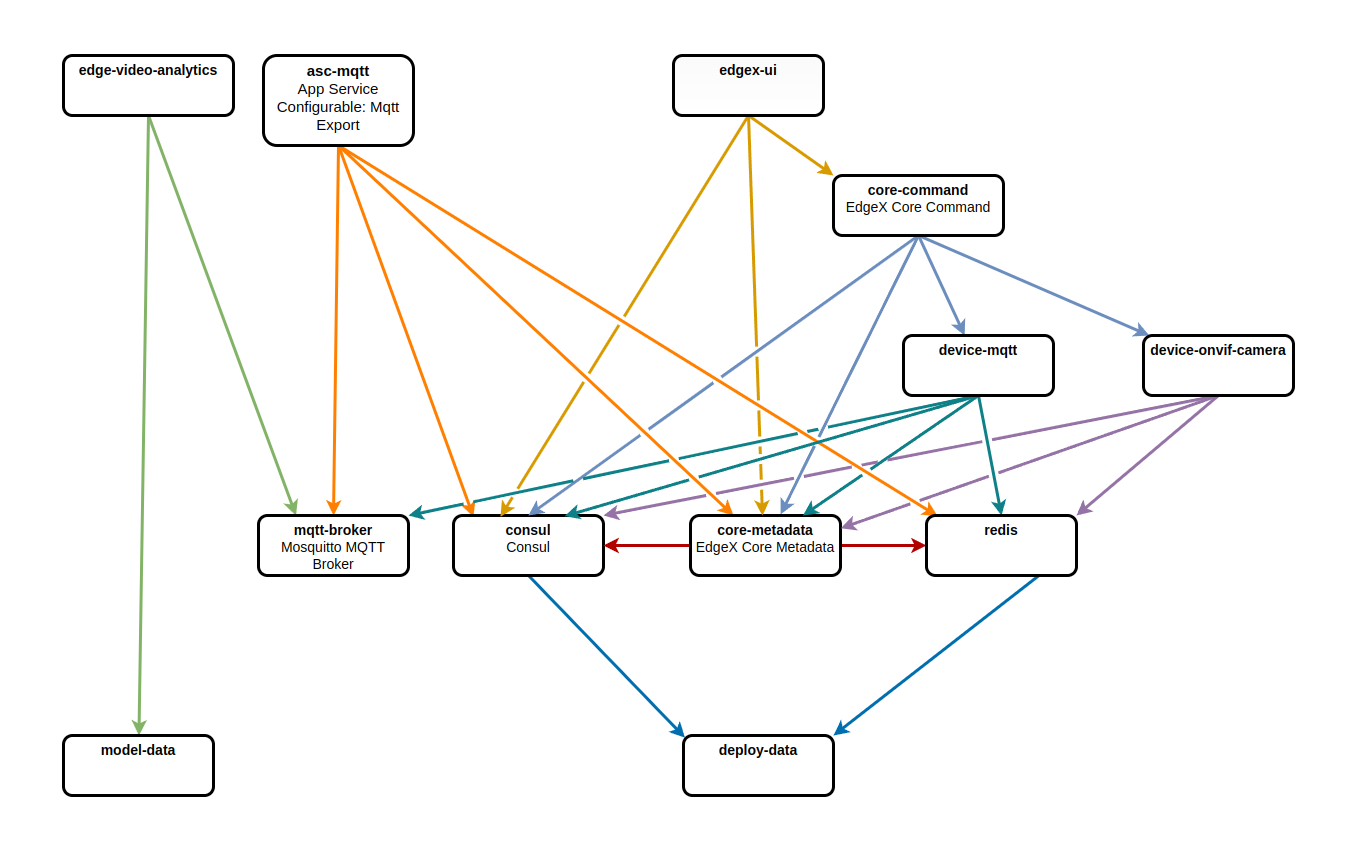
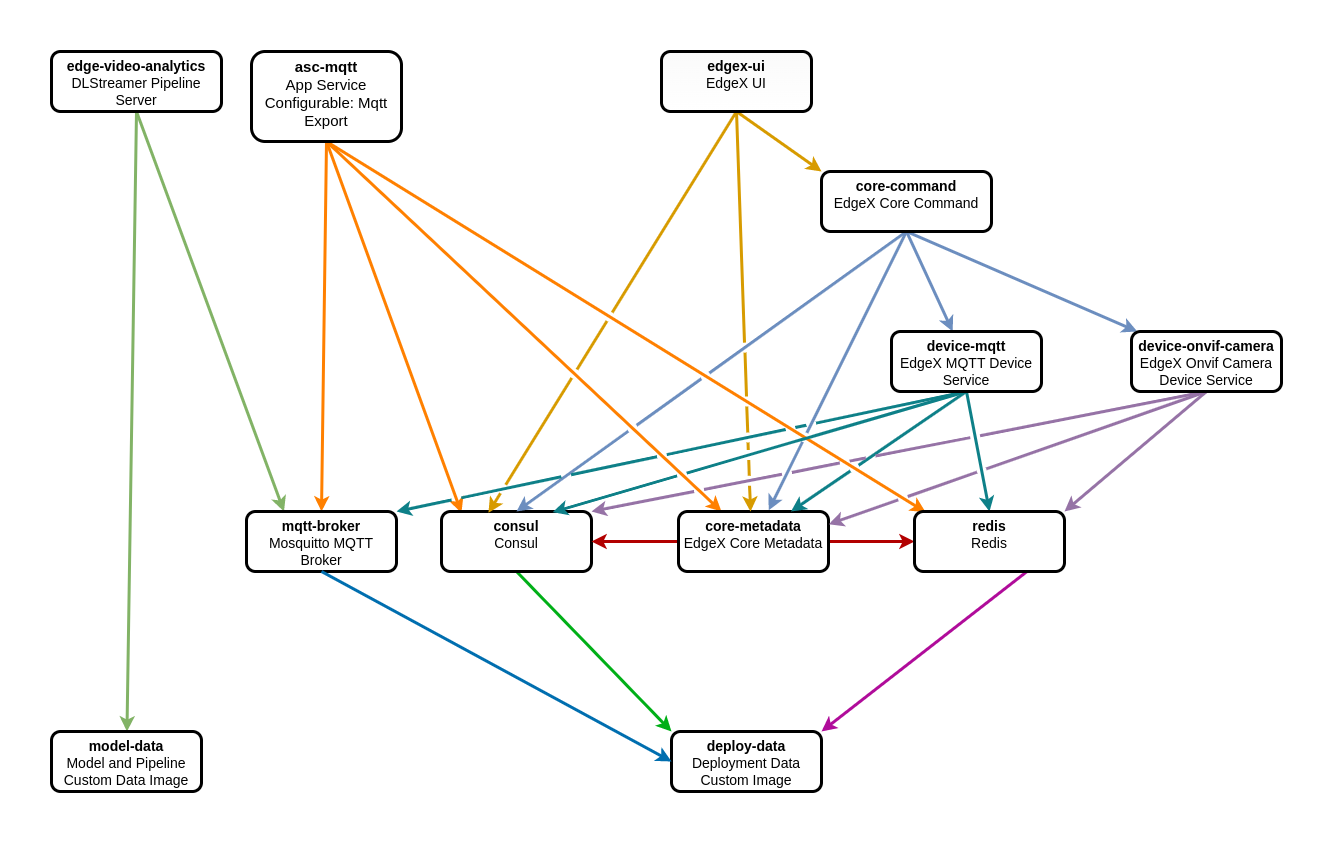
feat: mqtt over websockets, custom user input
- Adds support for MQTT over WebSockets
- Custom user input json file
- Updated dependency map to include mqtt-broker depending on deploy-data

diff --git a/demos/OH-EXF-Jakarta/README.md b/demos/OH-EXF-Jakarta/README.md
@@ -40,13 +40,24 @@ make all
 ```
 
 ### Register Node
+#### User Input
+- Copy the example [horizon/user-input.json](horizon/user-input.json) to the current directory.
+- Modify and/or add any user input values you would like to be specified
+- Make sure to use `USER_INPUT=<path to user-input.json>` when calling `make register`
+
+#### Register
 ```shell
+# Register with default pattern
 make register
-# OR
-make register p=<pattern-name>
+
+# Register with default pattern and custom user input file
+make register USER_INPUT=<path to user-input.json>
+
+# Register with custom pattern and custom user input file
+make register p=<pattern-name> USER_INPUT=<path to user-input.json>
 ```
 
-Unregister:
+#### Unregister
 ```shell
 make unregister force-clean
 ```
